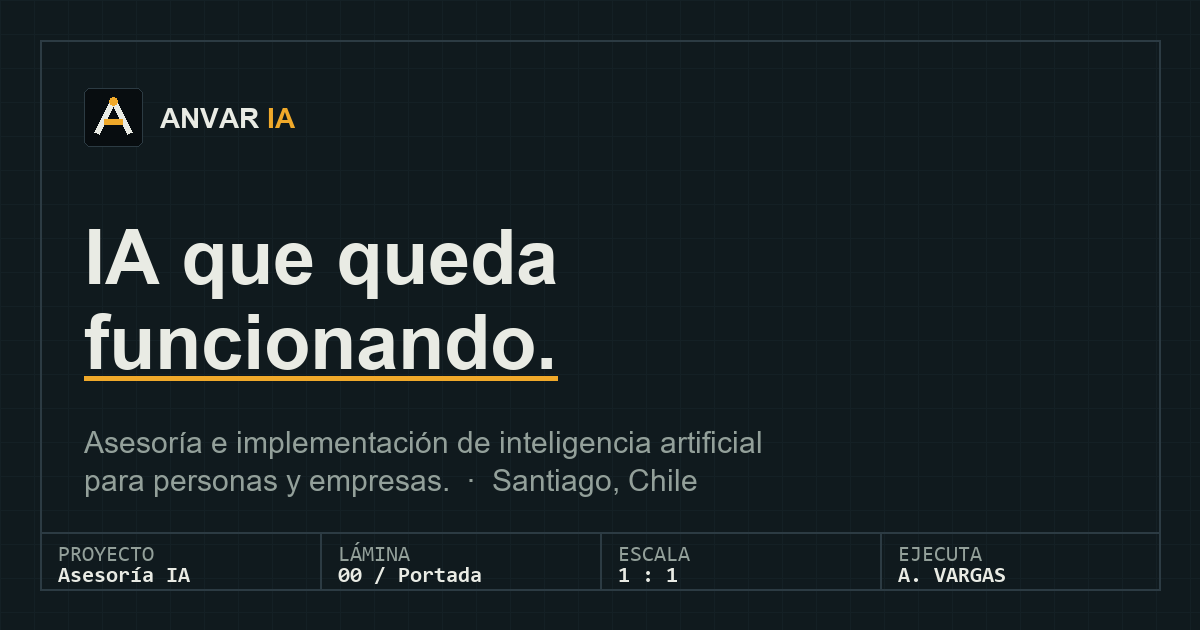
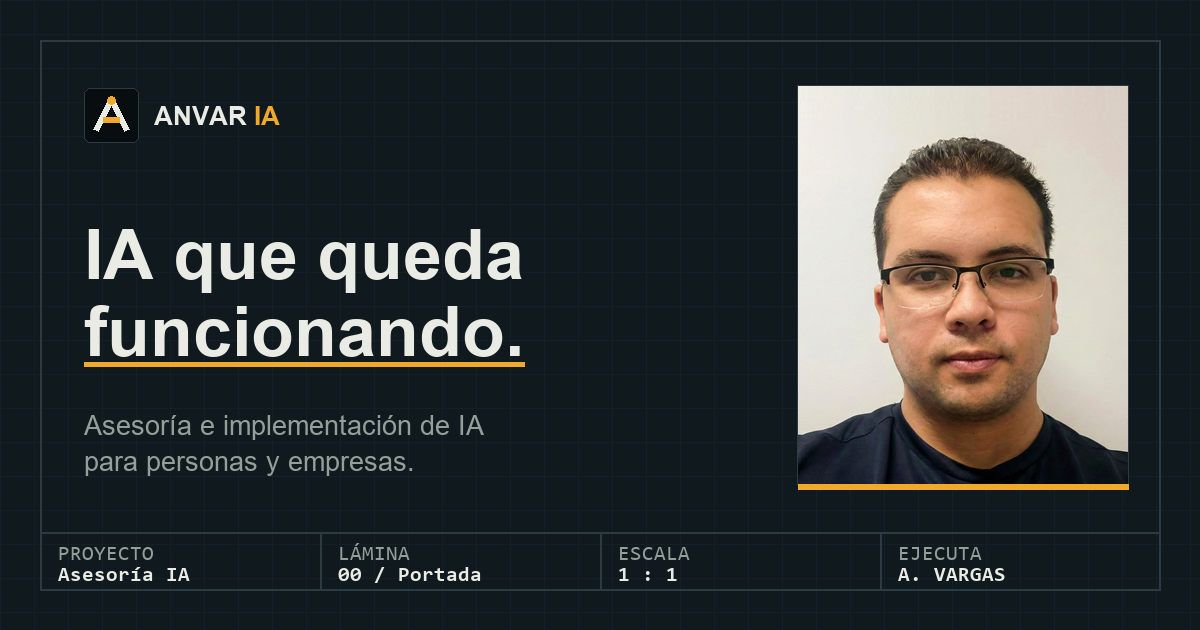
Retrato de Andres en la ficha, en los cierres y en la imagen para compartir
La ficha de "Quien esta detras" pasa de un monograma a una credencial real:
retrato arriba, filete ambar, placa con el nombre y los datos abajo. Las
cuatro paginas de servicio suman un retrato circular en el cierre con la
linea "Te atiende Andres Vargas, directamente". La imagen de Open Graph
ahora lleva el retrato junto al titular.

La foto original era un selfie cerrado con marca de agua de una app de
retoque: el encuadre la deja fuera y se extendio el fondo (pared lisa) para
darle aire sobre la cabeza.

Ajustes de maquetacion: la columna de la ficha se estrecha y el texto suma un
parrafo, para que las dos columnas queden parejas en escritorio.

diff --git a/public/styles.css b/public/styles.css
@@ -273,15 +273,16 @@ input[type=range]::-moz-range-thumb{width:18px;height:18px;background:var(--ambe
 .rfoot .v{font-family:var(--mono);font-weight:600;font-size:1.04rem;font-variant-numeric:tabular-nums}
 
 /* ---------- quién ---------- */
-.who{display:grid;grid-template-columns:.88fr 1.12fr;gap:clamp(24px,4vw,56px);align-items:start}
+.who{display:grid;grid-template-columns:.76fr 1.24fr;gap:clamp(24px,4vw,56px);align-items:start}
 .card-id{border:1px solid var(--rule-2);background:var(--panel);border-radius:3px;overflow:hidden;box-shadow:var(--sh)}
-.card-id .top{background:var(--deep);color:var(--on-deep);padding:22px 20px;display:flex;gap:16px;align-items:center}
-.mono-logo{width:60px;height:60px;border:1px solid var(--deep-rule);display:grid;place-items:center;font-family:var(--disp);font-weight:700;font-size:1.3rem;color:var(--amber);flex:none;border-radius:2px;font-stretch:115%}
+.card-id .retrato{width:100%;height:auto;display:block;border-bottom:1px solid var(--rule-2)}
+.card-id .top{background:var(--deep);color:var(--on-deep);padding:18px 20px;display:flex;gap:16px;align-items:center;position:relative}
+.card-id .top::before{content:"";position:absolute;top:0;left:0;right:0;height:2px;background:var(--amber)}
 .card-id .top b{display:block;font-family:var(--disp);font-size:1.14rem;font-stretch:110%;letter-spacing:-.01em}
 .card-id .top span{font-family:var(--mono);font-size:.69rem;color:var(--on-deep-2);letter-spacing:.07em}
 .card-id dl{margin:0;display:grid;grid-template-columns:auto 1fr}
-.card-id dt{font-family:var(--mono);font-size:.63rem;letter-spacing:.09em;text-transform:uppercase;color:var(--ink-3);padding:11px 14px;border-bottom:1px solid var(--rule);border-right:1px solid var(--rule);white-space:nowrap}
-.card-id dd{margin:0;padding:11px 14px;border-bottom:1px solid var(--rule);font-size:.89rem}
+.card-id dt{font-family:var(--mono);font-size:.61rem;letter-spacing:.09em;text-transform:uppercase;color:var(--ink-3);padding:9px 12px;border-bottom:1px solid var(--rule);border-right:1px solid var(--rule);white-space:nowrap}
+.card-id dd{margin:0;padding:9px 12px;border-bottom:1px solid var(--rule);font-size:.86rem}
 .card-id dl > dt:last-of-type,.card-id dl > dd:last-of-type{border-bottom:0}
 .who .body p + p{margin-top:16px}
 .who .body p{color:var(--ink-2);font-size:1.02rem}

diff --git a/public/index.html b/public/index.html
@@ -632,8 +632,9 @@
 
     <div class="who">
       <div class="card-id">
+        <img class="retrato" src="andres-vargas.jpg" width="900" height="1125"
+             alt="Andrés Vargas, fundador de ANVAR IA" loading="lazy" decoding="async">
         <div class="top">
-          <div class="mono-logo">AV</div>
           <div>
             <b>Andrés Vargas</b>
             <span>Asesoría e implementación de IA</span>
@@ -653,6 +654,7 @@
         <p>Estudio <strong>Ingeniería de Ejecución Industrial</strong> y trabajo en <strong>prevención de pérdidas</strong> en un local de retail. En paralelo levanté <strong>ANVAR TECH SpA</strong>, con la que opero un servicio técnico que vende en línea con IA adentro. Todo lo que aparece más arriba lo construí yo, para resolver un problema que tenía en frente.</p>
         <div class="pullq">"Si no te puedo mostrar la hora que te ahorré, todavía no terminé el trabajo."</div>
         <p>Eso también significa decirte que no cuando corresponde. Si tu problema es de proceso, de datos sucios o simplemente de que nadie escribió el procedimiento, te lo voy a decir antes de venderte una automatización que va a fallar igual.</p>
+        <p>Trabajo solo, y eso tiene una consecuencia que prefiero decir antes y no después: <strong>no tomo más de dos proyectos de empresa a la vez</strong>. Si te digo que puedo partir en tres semanas es porque puedo, no porque quiera cerrar la venta.</p>
         <p class="mono nota-legal">Confidencialidad por escrito antes de ver tus datos · Boleta o factura · Trabajo con tus herramientas actuales, no te obligo a cambiar de mundo</p>
       </div>
     </div>

diff --git a/public/servicio.css b/public/servicio.css
@@ -71,6 +71,9 @@
 /* cierre */
 .cierre{background:var(--deep);color:var(--on-deep);border-radius:3px;padding:clamp(28px,4.5vw,48px);text-align:center;position:relative;overflow:hidden;margin-top:20px}
 .cierre::before{content:"";position:absolute;inset:0;background-image:linear-gradient(rgba(255,255,255,.05) 1px,transparent 1px),linear-gradient(90deg,rgba(255,255,255,.05) 1px,transparent 1px);background-size:30px 30px;-webkit-mask-image:radial-gradient(90% 90% at 50% 0%,#000,transparent 72%);mask-image:radial-gradient(90% 90% at 50% 0%,#000,transparent 72%);pointer-events:none}
+.cierre-foto{width:78px;height:78px;border-radius:50%;object-fit:cover;margin:0 auto 14px;position:relative;border:2px solid var(--amber);box-shadow:0 0 0 5px rgba(240,169,42,.14)}
+/* más específico que `.cierre p`, que si no le pisa el tamaño y los márgenes */
+.cierre p.cierre-quien{font-family:var(--mono);font-size:.68rem;letter-spacing:.14em;text-transform:uppercase;color:var(--on-deep-2);position:relative;margin:0 auto 18px;max-width:none}
 .cierre h2{color:var(--on-deep);position:relative;max-width:22ch;margin:0 auto}
 .cierre p{color:var(--on-deep-2);margin:16px auto 0;max-width:52ch;position:relative;font-size:1.02rem}
 .cierre .cta{display:flex;gap:12px;justify-content:center;flex-wrap:wrap;margin-top:26px;position:relative}

diff --git a/public/automatizacion-procesos-ia.html b/public/automatizacion-procesos-ia.html
@@ -222,6 +222,9 @@
 <section id="contacto">
   <div class="sheet">
     <div class="cierre">
+      <img class="cierre-foto" src="andres-vargas-mini.jpg" width="320" height="320"
+           alt="Andrés Vargas" loading="lazy" decoding="async">
+      <p class="cierre-quien">Te atiende Andrés Vargas, directamente</p>
       <h2>Cuéntame el proceso y te digo si vale la pena</h2>
       <p>Treinta minutos, sin costo. Si tu caso no da los números, te lo voy a decir en la misma llamada en vez de venderte un proyecto que no iba a rendir.</p>
       <div class="cta">

diff --git a/public/diagnostico-ia-empresas.html b/public/diagnostico-ia-empresas.html
@@ -222,6 +222,9 @@
 <section id="contacto">
   <div class="sheet">
     <div class="cierre">
+      <img class="cierre-foto" src="andres-vargas-mini.jpg" width="320" height="320"
+           alt="Andrés Vargas" loading="lazy" decoding="async">
+      <p class="cierre-quien">Te atiende Andrés Vargas, directamente</p>
       <h2>Treinta minutos y sabes si esto te sirve</h2>
       <p>Me cuentas qué proceso te está costando caro y te digo derechamente si un diagnóstico tiene sentido o si tu problema es otro. Sin costo y sin discurso.</p>
       <div class="cta">

diff --git a/public/capacitacion-ia-empresas.html b/public/capacitacion-ia-empresas.html
@@ -219,6 +219,9 @@
 <section id="contacto">
   <div class="sheet">
     <div class="cierre">
+      <img class="cierre-foto" src="andres-vargas-mini.jpg" width="320" height="320"
+           alt="Andrés Vargas" loading="lazy" decoding="async">
+      <p class="cierre-quien">Te atiende Andrés Vargas, directamente</p>
       <h2>Quince personas, quince tareas resueltas</h2>
       <p>Cuéntame de qué trabaja tu equipo y te propongo el taller adaptado a eso. Treinta minutos de conversación, sin costo.</p>
       <div class="cta">

diff --git a/public/asesoria-ia-personal.html b/public/asesoria-ia-personal.html
@@ -251,6 +251,9 @@
 <section id="contacto">
   <div class="sheet">
     <div class="cierre">
+      <img class="cierre-foto" src="andres-vargas-mini.jpg" width="320" height="320"
+           alt="Andrés Vargas" loading="lazy" decoding="async">
+      <p class="cierre-quien">Te atiende Andrés Vargas, directamente</p>
       <h2>Cuéntame qué tarea te está comiendo el tiempo</h2>
       <p>Con eso te digo si te sirve una sesión de 90 minutos o si hay algo más grande. Sin costo y sin vueltas.</p>
       <div class="cta">
